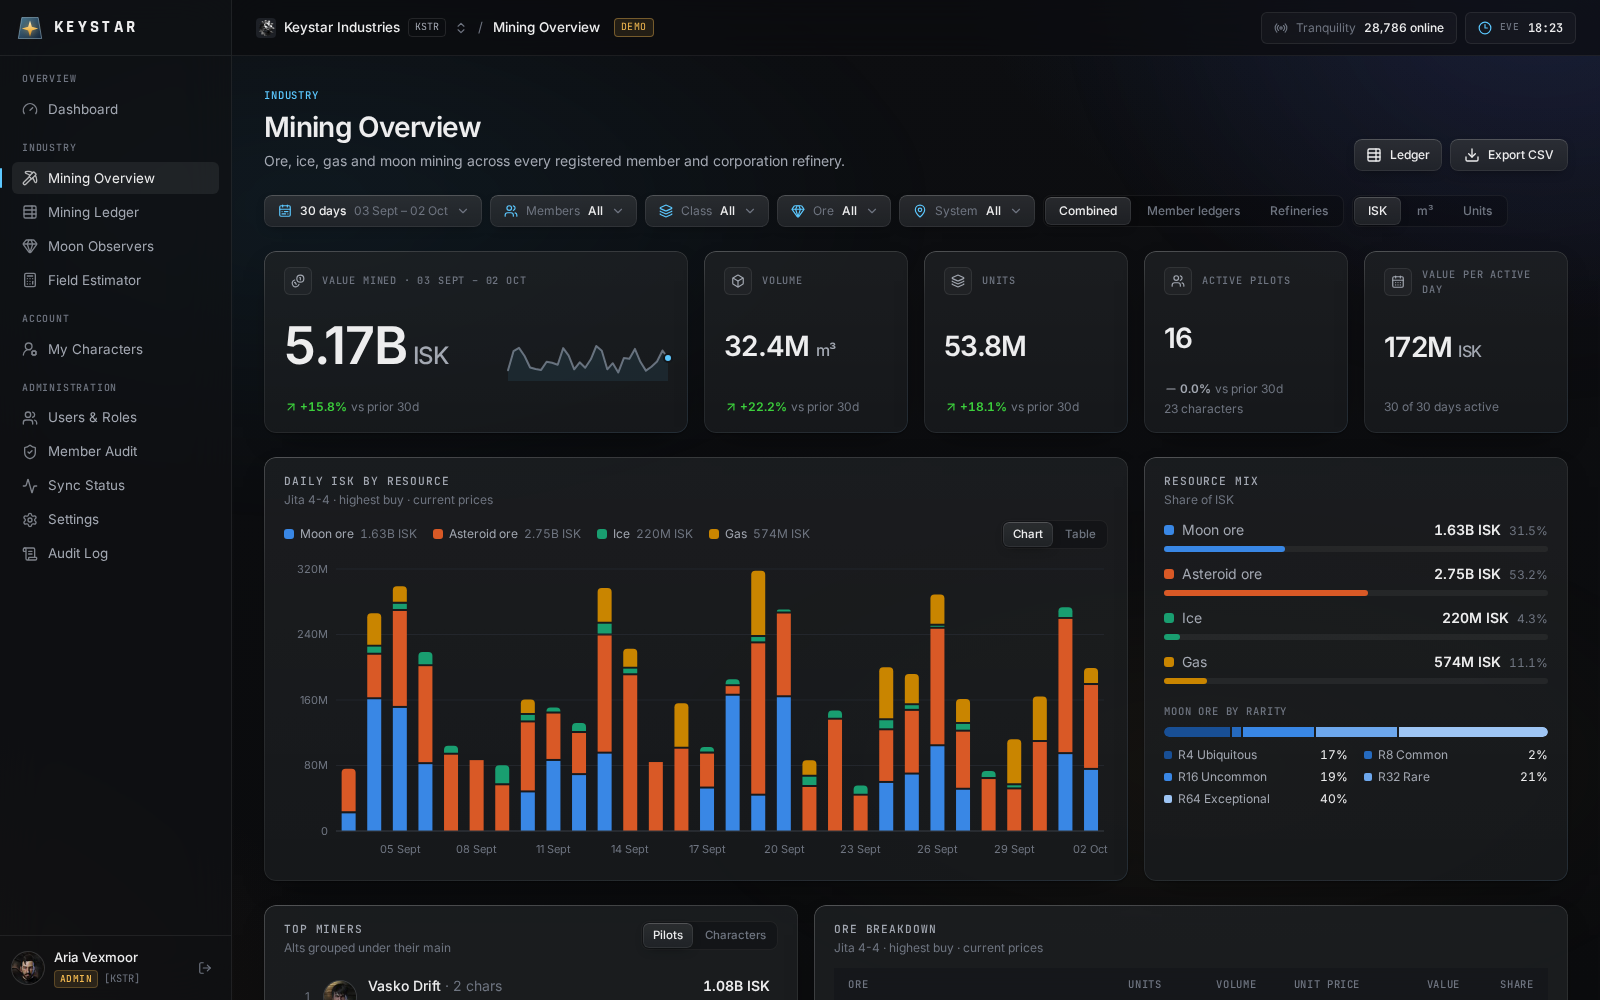
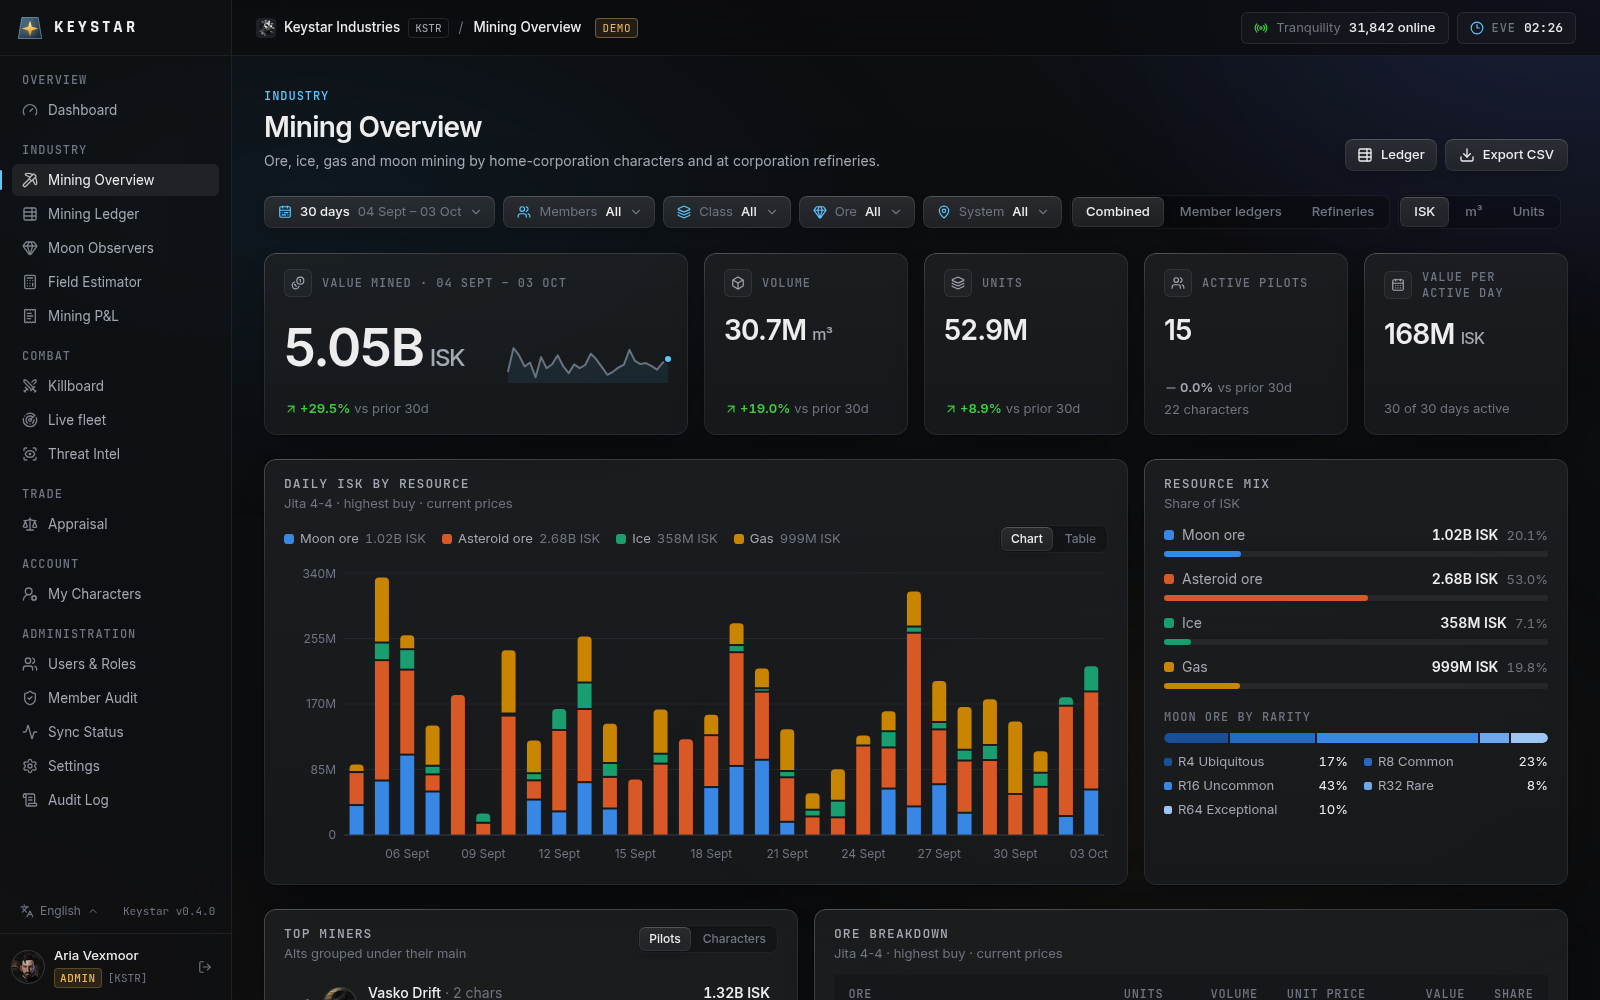
Document new features: live fleet, threat intel, mining P&L (#25)
* README: cover fleet, threat intel and mining P&L; fill docs, commands and demo notes

Claude-Session: https://claude.ai/code/session_01MaYd2con9oEFhjh7sQ93XX

* Refresh screenshots and add live fleet, threat intel and mining P&L

Retaken from the demo data at 1600x1000 so the sidebar shows the current
navigation and version.

Claude-Session: https://claude.ai/code/session_01MaYd2con9oEFhjh7sQ93XX

---------

diff --git a/src/scripts/demo-seed.ts b/src/scripts/demo-seed.ts
@@ -1,7 +1,8 @@
 /**
  * Seeds a self-contained demo corporation (users of every role, ~120 days of
- * mining, two moon refineries, prices) so Keystar can be explored without EVE
- * SSO credentials. Requires KEYSTAR_DEMO_MODE=true to log in as demo users.
+ * mining, two moon refineries, prices, a killboard, past fleets, threat-intel
+ * scans and a mining P&L) so Keystar can be explored without EVE SSO
+ * credentials. Requires KEYSTAR_DEMO_MODE=true to log in as demo users.
  *
  *   pnpm demo:seed            # refuses if real (non-demo) users exist
  *   pnpm demo:seed --force    # wipes ALL Keystar data first

diff --git a/README.md b/README.md
@@ -13,17 +13,24 @@
 
 Keystar signs pilots in with **EVE SSO**, collects their **ESI tokens** with exactly the scopes its modules need,
 syncs data in the background and turns it into dashboards. Modules so far: **mining** (personal and moon-refinery
-ledgers with filters, daily volume / value / quantity, member and ore breakdowns, CSV export and an ore field
-estimator for survey scans), a **killboard** with the corporation's PvP performance from zKillboard and a weekly
-situation report, and an **appraisal** tool for Jita prices.
+ledgers with filters, daily volume / value / quantity, member and ore breakdowns, CSV export, an ore field estimator
+for survey scans and a personal **mining P&L** with opt-in wallet import), a **killboard** with the corporation's PvP
+performance from zKillboard and a weekly situation report, **live fleet** tracking, **threat intel** for pasted
+local, fleets and d-scans, and an **appraisal** tool for Jita prices.
 
 ![Mining overview](docs/screenshots/mining.png)
 
 ![Killboard](docs/screenshots/killboard.png)
 
+![Threat intel](docs/screenshots/intel.png)
+
 <table>
   <tr>
     <td><img src="docs/screenshots/overview.png" alt="Dashboard" /></td>
+    <td><img src="docs/screenshots/pnl.png" alt="Mining P&amp;L" /></td>
+  </tr>
+  <tr>
+    <td><img src="docs/screenshots/fleet.png" alt="Live fleet" /></td>
     <td><img src="docs/screenshots/appraisal.png" alt="Appraisal" /></td>
   </tr>
   <tr>
@@ -97,7 +104,7 @@ how releases are cut: [docs/releasing.md](docs/releasing.md).
 
 ## Develop
 
-Requirements: Node.js 22+, pnpm 10, PostgreSQL 16+.
+Requirements: Node.js 22+, pnpm 10, PostgreSQL 17 (16 should work; Docker Compose and CI use 17).
 
 ```bash
 pnpm install
@@ -107,32 +114,38 @@ pnpm dev                      # web app on http://localhost:3000
 pnpm dev:worker               # background sync worker (second terminal)
 ```
 
-Try it without EVE credentials using demo data (fake corporation, every role, ~120 days of mining):
+Try it without EVE credentials using demo data (fake corporation, every role, ~120 days of mining, two moon
+refineries, a killboard, past fleets, threat-intel scans and a mining P&L):
 
 ```bash
 KEYSTAR_DEMO_MODE=true pnpm demo:seed
 KEYSTAR_DEMO_MODE=true pnpm dev
 ```
 
-| Command              | Purpose                                                        |
-| -------------------- | -------------------------------------------------------------- |
-| `pnpm test`          | Unit tests (+ integration tests when `TEST_DATABASE_URL` is set) |
-| `pnpm lint`          | ESLint                                                         |
-| `pnpm typecheck`     | TypeScript                                                     |
-| `pnpm db:generate`   | Create a migration after changing a Drizzle schema             |
-| `pnpm build`         | Production build (Next.js standalone + bundled worker)         |
+| Command                 | Purpose                                                          |
+| ----------------------- | ---------------------------------------------------------------- |
+| `pnpm test`             | Unit tests (+ integration tests when `TEST_DATABASE_URL` is set) |
+| `pnpm lint`             | ESLint                                                           |
+| `pnpm typecheck`        | TypeScript                                                       |
+| `pnpm db:migrate`       | Apply database migrations                                        |
+| `pnpm db:generate`      | Create a migration after changing a Drizzle schema               |
+| `pnpm db:studio`        | Browse the database with Drizzle Studio                          |
+| `pnpm demo:seed`        | Seed the demo corporation (needs `KEYSTAR_DEMO_MODE=true`)       |
+| `pnpm build`            | Production build (Next.js standalone + bundled worker)           |
+| `pnpm release:prepare`  | Pick the next version for a release ([docs/releasing.md](docs/releasing.md)) |
 
 ## Documentation
 
 - [docs/deployment.md](docs/deployment.md) — VPS setup, backups, updates, troubleshooting
 - [docs/architecture.md](docs/architecture.md) — how the pieces fit together
 - [docs/modules.md](docs/modules.md) — adding a feature module (skills, assets, …)
+- [docs/releasing.md](docs/releasing.md) — versioning and how releases are cut
 - [ROADMAP.md](ROADMAP.md) — planned features
 
 ## Tech stack
 
-Next.js 16 (App Router) · React 19 · TypeScript · Tailwind CSS 4 · PostgreSQL + Drizzle ORM · jose · Recharts ·
-Vitest · Docker Compose + Caddy.
+Next.js 16 (App Router) · React 19 · TypeScript · Tailwind CSS 4 · PostgreSQL + Drizzle ORM · jose · zod ·
+Recharts · lucide · Anthropic SDK (optional Claude reports) · Vitest · Docker Compose + Caddy.
 
 ## License
 
